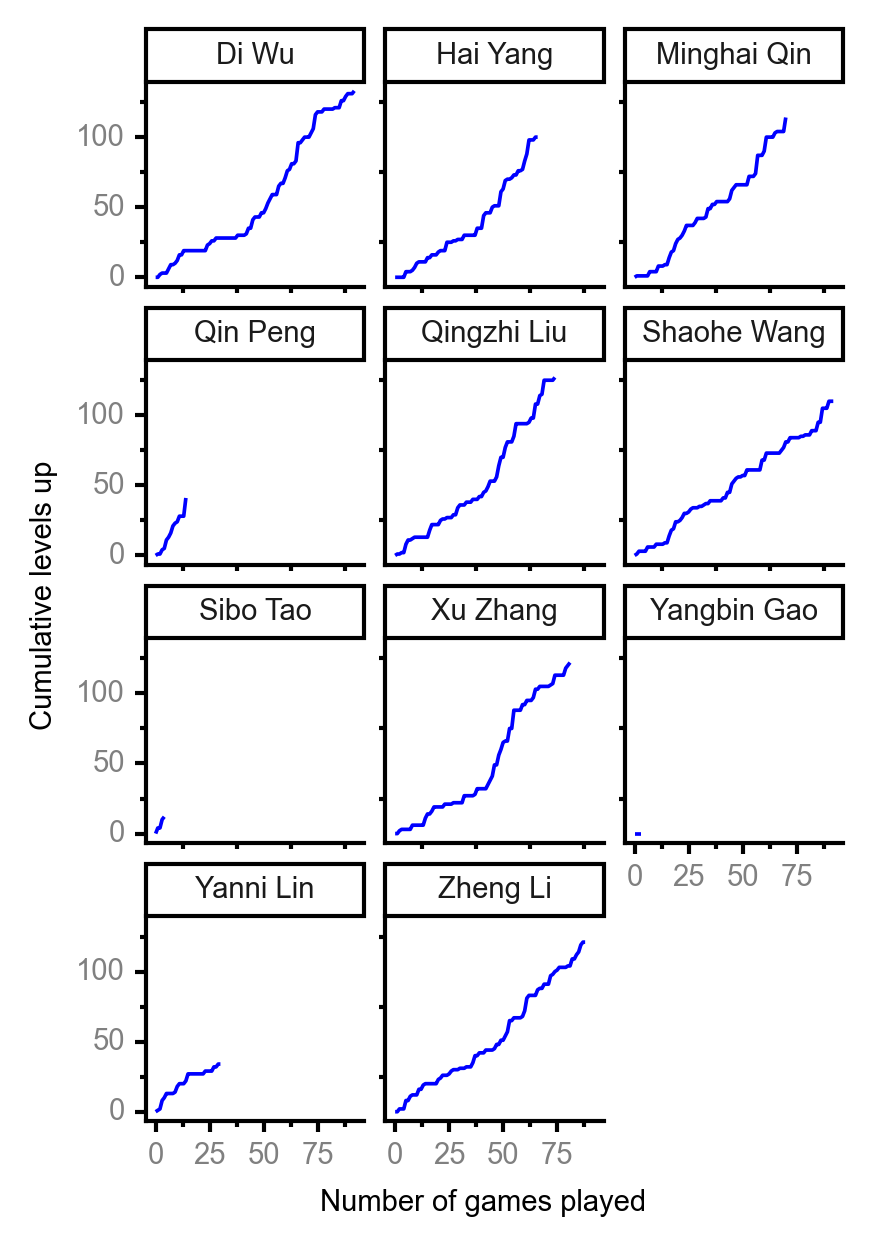
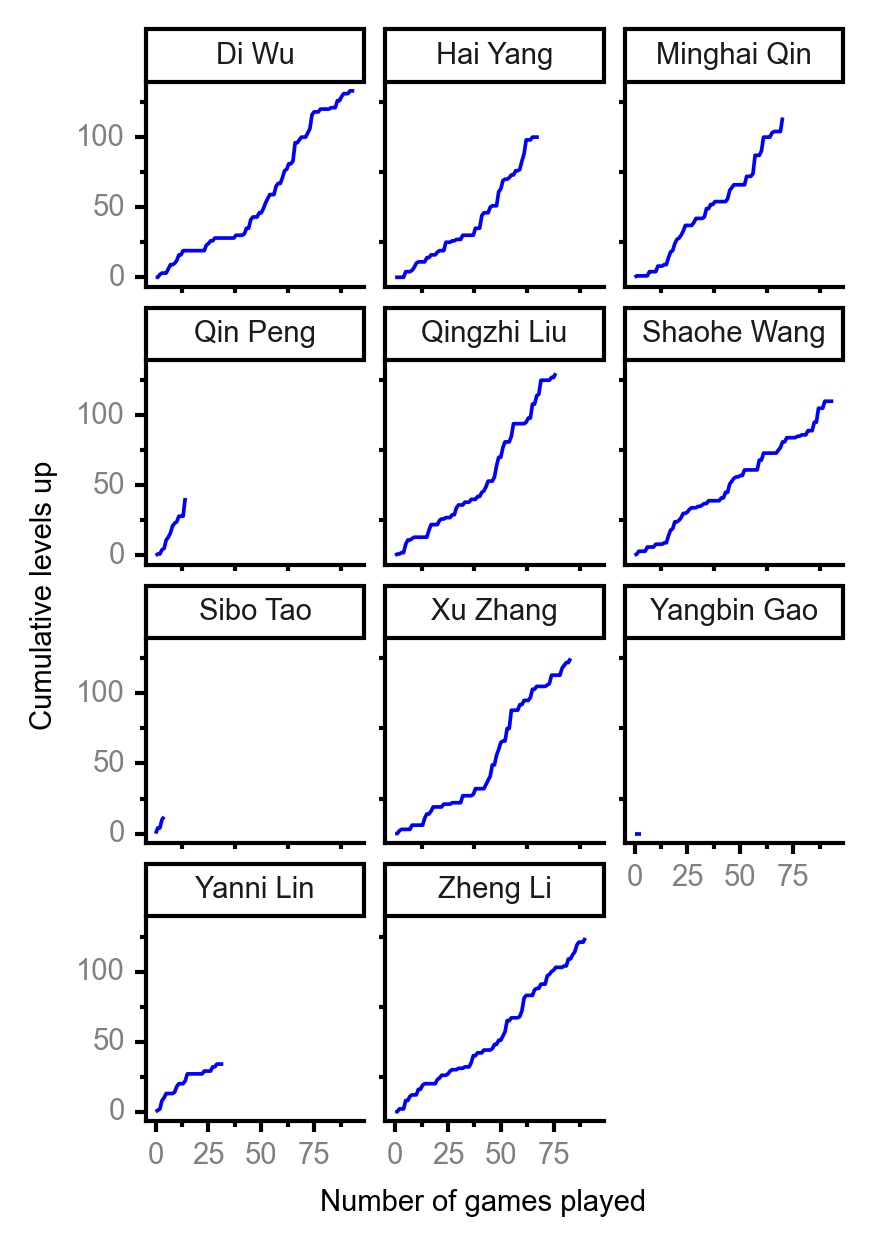
update player stats

diff --git a/player_stats.md b/player_stats.md
@@ -10,15 +10,15 @@ date: 2020-12-26
 
 | <br><br><br>Rank | <br><br><br>Player | <br> Lifetime <br> levels <br> up | <br><br> Winning <br> rate | <br> Average <br> levels <br> up | <br> Total <br> games <br> played | Games <br> played <br> as <br> MVP | Games <br> played <br> as <br> dealer | N_games <br> short <br> staffed <br> as dealer | Winning <br> rate <br> as <br> dealer |
 |:---:|:---:|:---:|:---:|:---:|:---:|:---:|:---:|:---:|:---:|
-| 1 | Di <br> Wu | 133 | 47.3% | 3.02 | 93 | 3 | 15 | 0 | 46.7% |
-| 2 | Qingzhi <br> Liu | 127 | 52.0% | 3.26 | 75 | 0 | 11 | 3 | 54.5% |
-| 3 | Xu <br> Zhang | 122 | 45.1% | 3.30 | 82 | 0 | 10 | 0 | 40.0% |
-| 4 | Zheng <br> Li | 121 | 56.2% | 2.42 | 89 | 1 | 15 | 0 | 60.0% |
+| 1 | Di <br> Wu | 139 | 47.4% | 3.09 | 95 | 4 | 15 | 0 | 46.7% |
+| 2 | Qingzhi <br> Liu | 136 | 53.2% | 3.32 | 77 | 0 | 11 | 3 | 54.5% |
+| 3 | Zheng <br> Li | 130 | 57.1% | 2.50 | 91 | 2 | 16 | 0 | 62.5% |
+| 4 | Xu <br> Zhang | 125 | 45.2% | 3.29 | 84 | 0 | 11 | 0 | 36.4% |
 | 5 | Minghai <br> Qin | 117 | 52.1% | 3.16 | 71 | 0 | 10 | 1 | 70.0% |
-| 6 | Shaohe <br> Wang | 110 | 48.4% | 2.44 | 93 | 0 | 16 | 1 | 37.5% |
-| 7 | Hai <br> Yang | 100 | 46.3% | 3.23 | 67 | 2 | 10 | 1 | 40.0% |
+| 6 | Shaohe <br> Wang | 110 | 47.4% | 2.44 | 95 | 0 | 16 | 1 | 37.5% |
+| 7 | Hai <br> Yang | 106 | 46.4% | 3.31 | 69 | 2 | 10 | 1 | 40.0% |
 | 8 | Qin <br> Peng | 41 | 80.0% | 3.42 | 15 | 1 | 2 | 0 | 100.0% |
-| 9 | Yanni <br> Lin | 34 | 41.9% | 2.62 | 31 | 0 | 3 | 1 | 66.7% |
+| 9 | Yanni <br> Lin | 34 | 39.4% | 2.62 | 33 | 0 | 3 | 1 | 66.7% |
 | 10 | Sibo <br> Tao | 14 | 80.0% | 3.50 | 5 | 0 | 0 | 0 | 0.0% |
 | 11 | Yangbin <br> Gao | 0 | 0.0% | 0.00 | 4 | 0 | 0 | 0 | 0.0% |
 
